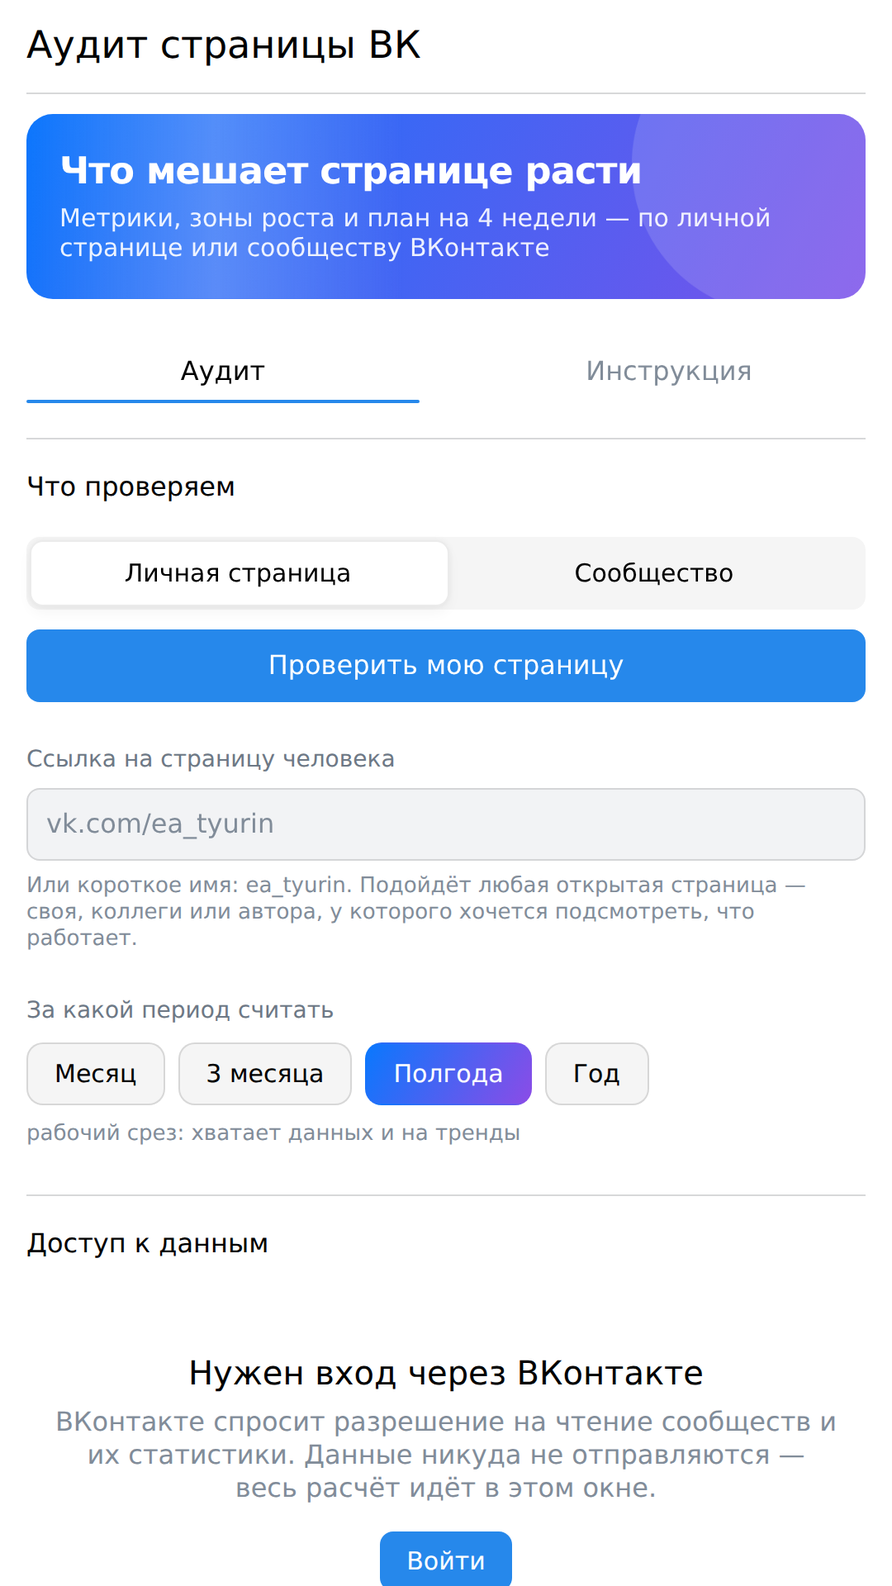
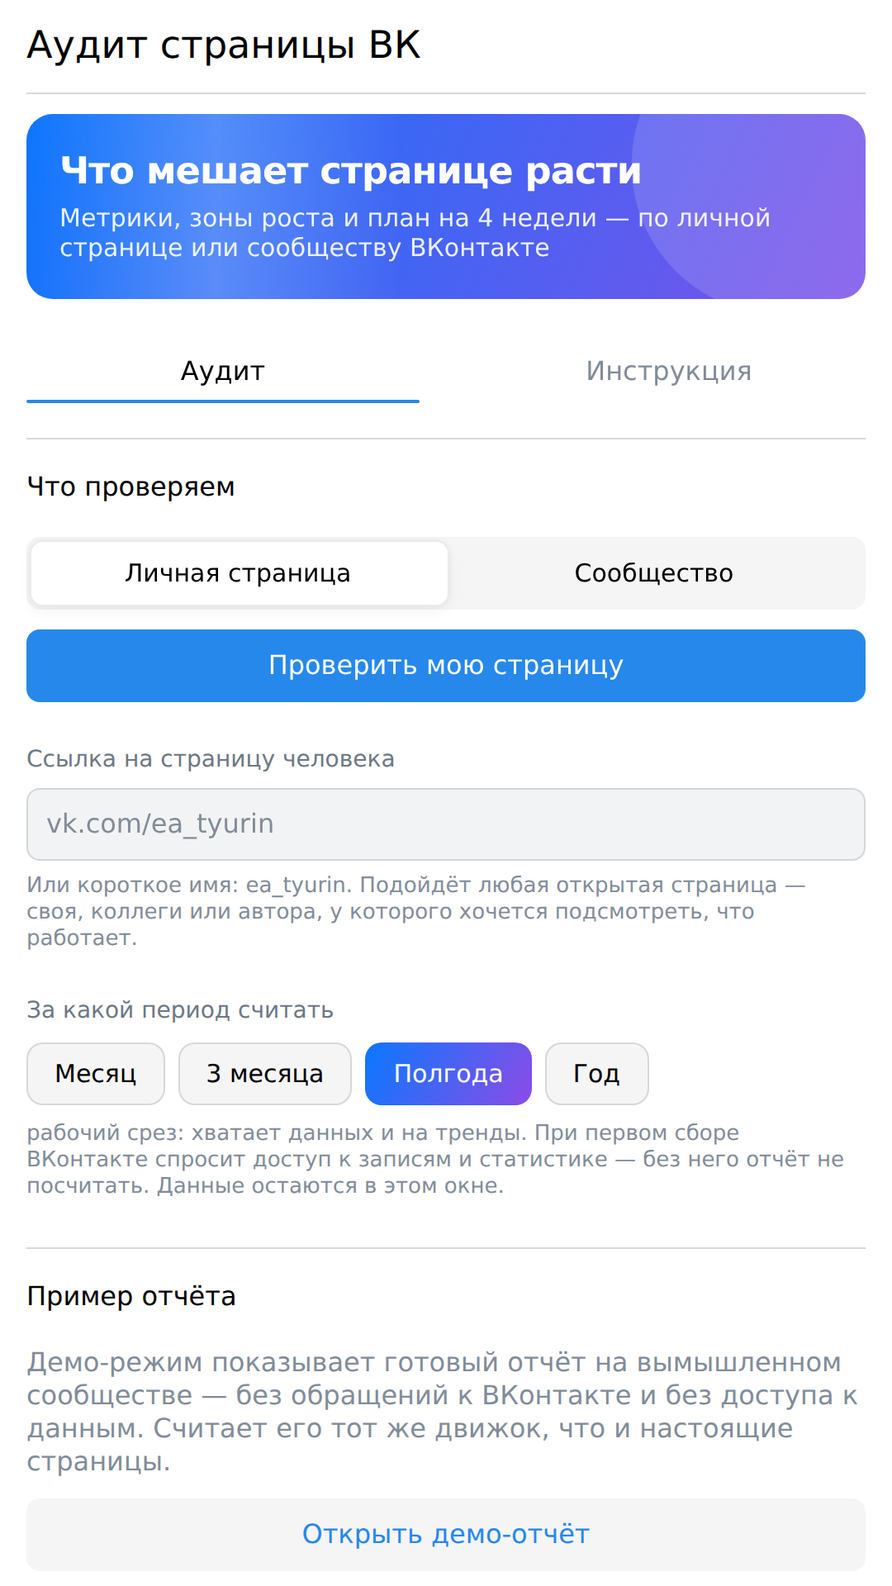
Бесшовная авторизация: убран экран входа внутри ВК
Отказ модерации по пункту 1.2.2: приложение должно опознавать человека
по параметрам запуска, а отдельный вход считается избыточным. У нас
первый экран показывал блок «Нужен вход через ВКонтакте» с кнопкой —
пока её не нажмут, приложение человеком не занималось.

Внутри ВК этот блок убран совсем. Сразу видно поле, выбор периода
и «Проверить мою страницу» — она берёт vk_user_id из параметров запуска
и разбирает страницу без единого вопроса.

Ключ доступа теперь запрашивается в момент сбора, а не до него: он
нужен только чтобы прочитать записи, и окно прав ВК появляется тогда,
когда понятно, зачем оно. Это же требует пункт 1.1.2 — согласие под
уже внедрённую функцию. Отказ обрабатывается по пункту 1.1.9:
объяснение и возможность повторить, а не тупик.

ensureSession возвращает сессию, а не полагается на состояние: после
setSession значение появилось бы только на следующем проходе, а сбор
должен начаться сразу — иначе первое нажатие уходило бы впустую.

Экран входа остался вне ВК, где параметров запуска нет.

docs/МОДЕРАЦИЯ.md — разбор отказа и честная оговорка про вторую
половину пункта: валидация подписи требует сервера, которого
у статического приложения нет.

Claude-Session: https://claude.ai/code/session_01EZgieUKmpH6o8bzon8hGGc

diff --git a/apps/vk-audit/src/App.tsx b/apps/vk-audit/src/App.tsx
@@ -87,27 +87,46 @@ export function App() {
       .catch(() => setAdminGroups([]));
   }, [session]);
 
-  const signIn = useCallback(async () => {
-    setError(null);
+  /**
+   * Ключ доступа — по требованию, а не отдельным экраном входа.
+   *
+   * Внутри ВКонтакте человек уже авторизован параметрами запуска
+   * (`vk_user_id`), и просить его «войти» нельзя: правила платформы,
+   * пункт 1.2.2, считают отдельную авторизацию избыточной. Ключ нужен
+   * только для чтения страницы, поэтому и запрашивается в тот момент,
+   * когда человек нажал «собрать» — тогда же ВК показывает окно прав
+   * и понятно, зачем они.
+   *
+   * Возвращает сессию, а не полагается на состояние: после `setSession`
+   * значение появится только на следующем проходе, а собирать надо сразу.
+   */
+  const ensureSession = useCallback(async (): Promise<Session | null> => {
+    if (session) return session;
     if (!insideVK) {
+      // вне ВК параметров запуска нет — там остаётся обычный вход
       startStandaloneAuth();
-      return;
+      return null;
     }
-    try {
-      const next = await authorizeViaBridge();
-      saveSession(next);
-      setSession(next);
-    } catch (err) {
-      setError(err instanceof Error ? err.message : 'Войти не удалось');
-    }
-  }, [insideVK]);
+    const next = await authorizeViaBridge();
+    saveSession(next);
+    setSession(next);
+    return next;
+  }, [session, insideVK]);
 
   const runAudit = useCallback(async (target: string) => {
-    if (!session) {
-      await signIn();
+    setError(null);
+    let active: Session | null;
+    try {
+      active = await ensureSession();
+    } catch {
+      // отказ в правах — не ошибка приложения, объясняем и даём повторить
+      setError('Без доступа к данным ВКонтакте отчёт не собрать: приложение '
+        + 'читает записи и статистику страницы. Нажмите «собрать» ещё раз '
+        + 'и подтвердите доступ.');
       return;
     }
-    setError(null);
+    if (!active) return;
+
     setRivals(null);
     setSuggestion(null);
     setVideoReport(null);
@@ -116,7 +135,7 @@ export function App() {
     setPanel('loading');
     setStage('Подключаемся к ВКонтакте');
     try {
-      const api = new VKApi(session.token, session.transport);
+      const api = new VKApi(active.token, active.transport);
       const snapshot = await collect(api, target, { periodDays, onProgress: setStage });
       setStage('Считаем метрики и зоны роста');
       setReport(buildReport(snapshot));
@@ -125,7 +144,7 @@ export function App() {
       setError(err instanceof Error ? err.message : 'Не удалось собрать аудит');
       setPanel('start');
     }
-  }, [session, signIn, periodDays]);
+  }, [ensureSession, periodDays]);
 
   const runDemo = useCallback(() => {
     setError(null);
@@ -222,12 +241,12 @@ export function App() {
             <StartPanel
               signedIn={Boolean(session)}
               insideVK={insideVK}
+              onSignIn={() => { void ensureSession().catch(() => undefined); }}
               selfId={selfId}
               adminGroups={adminGroups}
               periodDays={periodDays}
               onPeriodChange={setPeriodDays}
               error={error}
-              onSignIn={signIn}
               onAudit={runAudit}
               onDemo={runDemo}
             />

diff --git a/apps/vk-audit/src/panels/StartPanel.tsx b/apps/vk-audit/src/panels/StartPanel.tsx
@@ -135,7 +135,14 @@ export function StartPanel({
               />
             </FormItem>
 
-            <FormItem top="За какой период считать" bottom={period.hint}>
+            <FormItem
+              top="За какой период считать"
+              bottom={insideVK
+                ? `${period.hint}. При первом сборе ВКонтакте спросит доступ `
+                  + 'к записям и статистике — без него отчёт не посчитать. '
+                  + 'Данные остаются в этом окне.'
+                : period.hint}
+            >
               <HorizontalScroll>
                 <div className="chips chips--nowrap">
                   {PERIOD_OPTIONS.map((option) => (
@@ -168,17 +175,20 @@ export function StartPanel({
             )}
           </Group>
 
-          {!signedIn && (
+          {/*
+            Внутри ВКонтакте отдельного входа нет: человек уже опознан
+            параметрами запуска, а доступ к данным спрашивается в момент
+            сбора — правила платформы, пункт 1.2.2. Экран входа остаётся
+            только снаружи, где параметров запуска не существует.
+          */}
+          {!signedIn && !insideVK && (
             <Group header={<Header>Доступ к данным</Header>}>
               <Placeholder
                 title="Нужен вход через ВКонтакте"
                 action={<Button size="m" onClick={onSignIn}>Войти</Button>}
               >
-                {insideVK
-                  ? 'ВКонтакте спросит разрешение на чтение сообществ и их статистики. '
-                    + 'Данные никуда не отправляются — весь расчёт идёт в этом окне.'
-                  : 'Приложение открыто вне ВКонтакте. Вход пойдёт через браузер с '
-                    + 'возвратом на localhost:8910 — так же, как в десктопной версии.'}
+                Приложение открыто вне ВКонтакте. Вход пойдёт через браузер
+                с возвратом на localhost:8910 — так же, как в десктопной версии.
               </Placeholder>
             </Group>
           )}
@@ -198,10 +208,11 @@ export function StartPanel({
             </Group>
           )}
 
-          <Group header={<Header>Посмотреть без входа</Header>}>
+          <Group header={<Header>Пример отчёта</Header>}>
             <Div>
               <Text style={{ color: 'var(--vkui--color_text_secondary)' }}>
-                Демо-режим показывает готовый отчёт на вымышленном сообществе.
+                Демо-режим показывает готовый отчёт на вымышленном сообществе —
+                без обращений к ВКонтакте и без доступа к данным.
                 Считает его тот же движок, что и настоящие страницы.
               </Text>
               <Spacing size={12} />

diff --git a/apps/vk-audit/src/components/GuideView.tsx b/apps/vk-audit/src/components/GuideView.tsx
@@ -32,7 +32,8 @@ const STEPS: Step[] = [
       ['Переключатель сверху', 'меняет подсказки и подпись кнопки. Ошибиться им не страшно: тип страницы приложение определяет по самому адресу'],
       ['«Проверить мою страницу»', 'разбирает вашу без ввода ссылки — кнопка есть внутри ВКонтакте'],
       ['Период', 'за сколько дней считать. Полгода — рабочий срез, месяц берите только чтобы быстро глянуть'],
-      ['«Открыть демо-отчёт»', 'показывает все экраны на вымышленном сообществе, вход не нужен'],
+      ['Доступ к данным', 'внутри ВКонтакте отдельного входа нет — приложение узнаёт вас по параметрам запуска. Разрешение на чтение записей ВК спросит один раз, когда нажмёте «собрать»'],
+      ['«Открыть демо-отчёт»', 'показывает все экраны на вымышленном сообществе — вообще без обращений к ВКонтакте'],
     ],
   },
   {

diff --git a/apps/vk-audit/docs/МОДЕРАЦИЯ.md b/apps/vk-audit/docs/МОДЕРАЦИЯ.md
@@ -1,0 +1,88 @@
+# Модерация: что требует платформа и как это сделано
+
+Заметки по отказам и правкам под них. Правила — [dev.vk.ru/ru/mini-apps-rules](https://dev.vk.ru/ru/mini-apps-rules),
+редакция от 17 марта 2026.
+
+---
+
+## Отказ от 4 августа 2026 · пункт 1.2.2
+
+Формулировка модератора:
+
+> В приложениях платформы VK Mini Apps важно реализовать бесшовную
+> авторизацию пользователя по `vk_user_id` в соответствии с п. 1.2.2.
+> Авторизация по почте, телефону или через системы авторизации,
+> например VK ID, избыточны.
+
+Сам пункт:
+
+> 1.2.2. Приложение, не являющееся Игрой, должно авторизовывать
+> Пользователей по параметрам запуска и валидировать подпись параметров
+> запуска в соответствии с документацией.
+
+### Что было не так
+
+Первый экран показывал блок «Доступ к данным» с заголовком «Нужен вход
+через ВКонтакте» и кнопкой «Войти». Технически это был обычный
+`VKWebAppGetAuthToken`, но выглядело и работало как отдельный вход:
+пока человек не нажмёт кнопку, приложение им не занималось.
+
+Внутри ВКонтакте это лишнее по определению — платформа передаёт
+`vk_user_id` в параметрах запуска, то есть человек уже опознан.
+
+### Что сделано
+
+**Экран входа убран изнутри ВК совсем.** Человек сразу видит поле,
+выбор периода и кнопку «Проверить мою страницу» — она берёт `vk_user_id`
+из параметров запуска и разбирает его страницу без единого вопроса.
+
+**Ключ доступа запрашивается в момент сбора, а не до него.** Он нужен
+только чтобы прочитать записи и статистику; окно прав ВКонтакте
+показывает тогда, когда человек нажал «собрать» — и в этот момент
+понятно, зачем права. Это же требует пункт 1.1.2: согласие спрашивается
+под уже внедрённую функцию.
+
+**Отказ обрабатывается и не ломает приложение** (пункт 1.1.9): если
+человек не дал доступ, появляется объяснение, зачем он нужен, и сбор
+можно повторить. Демо-режим при этом работает всегда — он вообще
+не обращается к ВКонтакте.
+
+Экран входа остался **только вне ВКонтакте**, где параметров запуска
+не существует: приложение открывается и на GitHub Pages напрямую,
+и локально с возвратом на `localhost:8910`.
+
+### Что осталось нерешённым
+
+Вторая половина пункта 1.2.2 — **валидация подписи параметров запуска**.
+Подпись проверяется секретом приложения, а секрет нельзя класть
+в браузерный бандл: он распаковывается (это же запрещает пункт 1.2.5).
+Значит, для проверки нужен серверный обработчик.
+
+Сейчас его нет и проверять нечего: приложение статическое, своего
+бэкенда у него не существует, данные никуда не уходят и никакие решения
+на основании `vk_user_id` не принимаются — он используется только как
+подсказка «чью страницу открыть по кнопке». Подделка параметров даёт
+ровно ту же возможность, что и ручной ввод чужой ссылки, которая
+и так открыта всем.
+
+Если модерация вернётся с этим требованием, вариантов два:
+
+1. поднять маленький серверный обработчик, который проверяет подпись
+   и отдаёт приложению «да/нет» — это ломает нынешнюю схему «без
+   сервера вовсе»;
+2. объяснить в переписке, что валидировать нечего: серверной стороны
+   нет, доверенных действий по параметрам запуска не совершается.
+
+Второй ответ честный, но принимает его не всегда — закладывайтесь
+на первый.
+
+---
+
+## Что проверить перед повторной подачей
+
+- политика конфиденциальности открывается по прямой ссылке
+  и описывает то, что происходит на самом деле;
+- демо-режим работает без единого запроса к ВКонтакте;
+- при отказе в правах приложение объясняет причину и даёт повторить;
+- скриншоты в карточке сняты с текущей версии — на старых был экран
+  входа, из-за которого и пришёл отказ.
